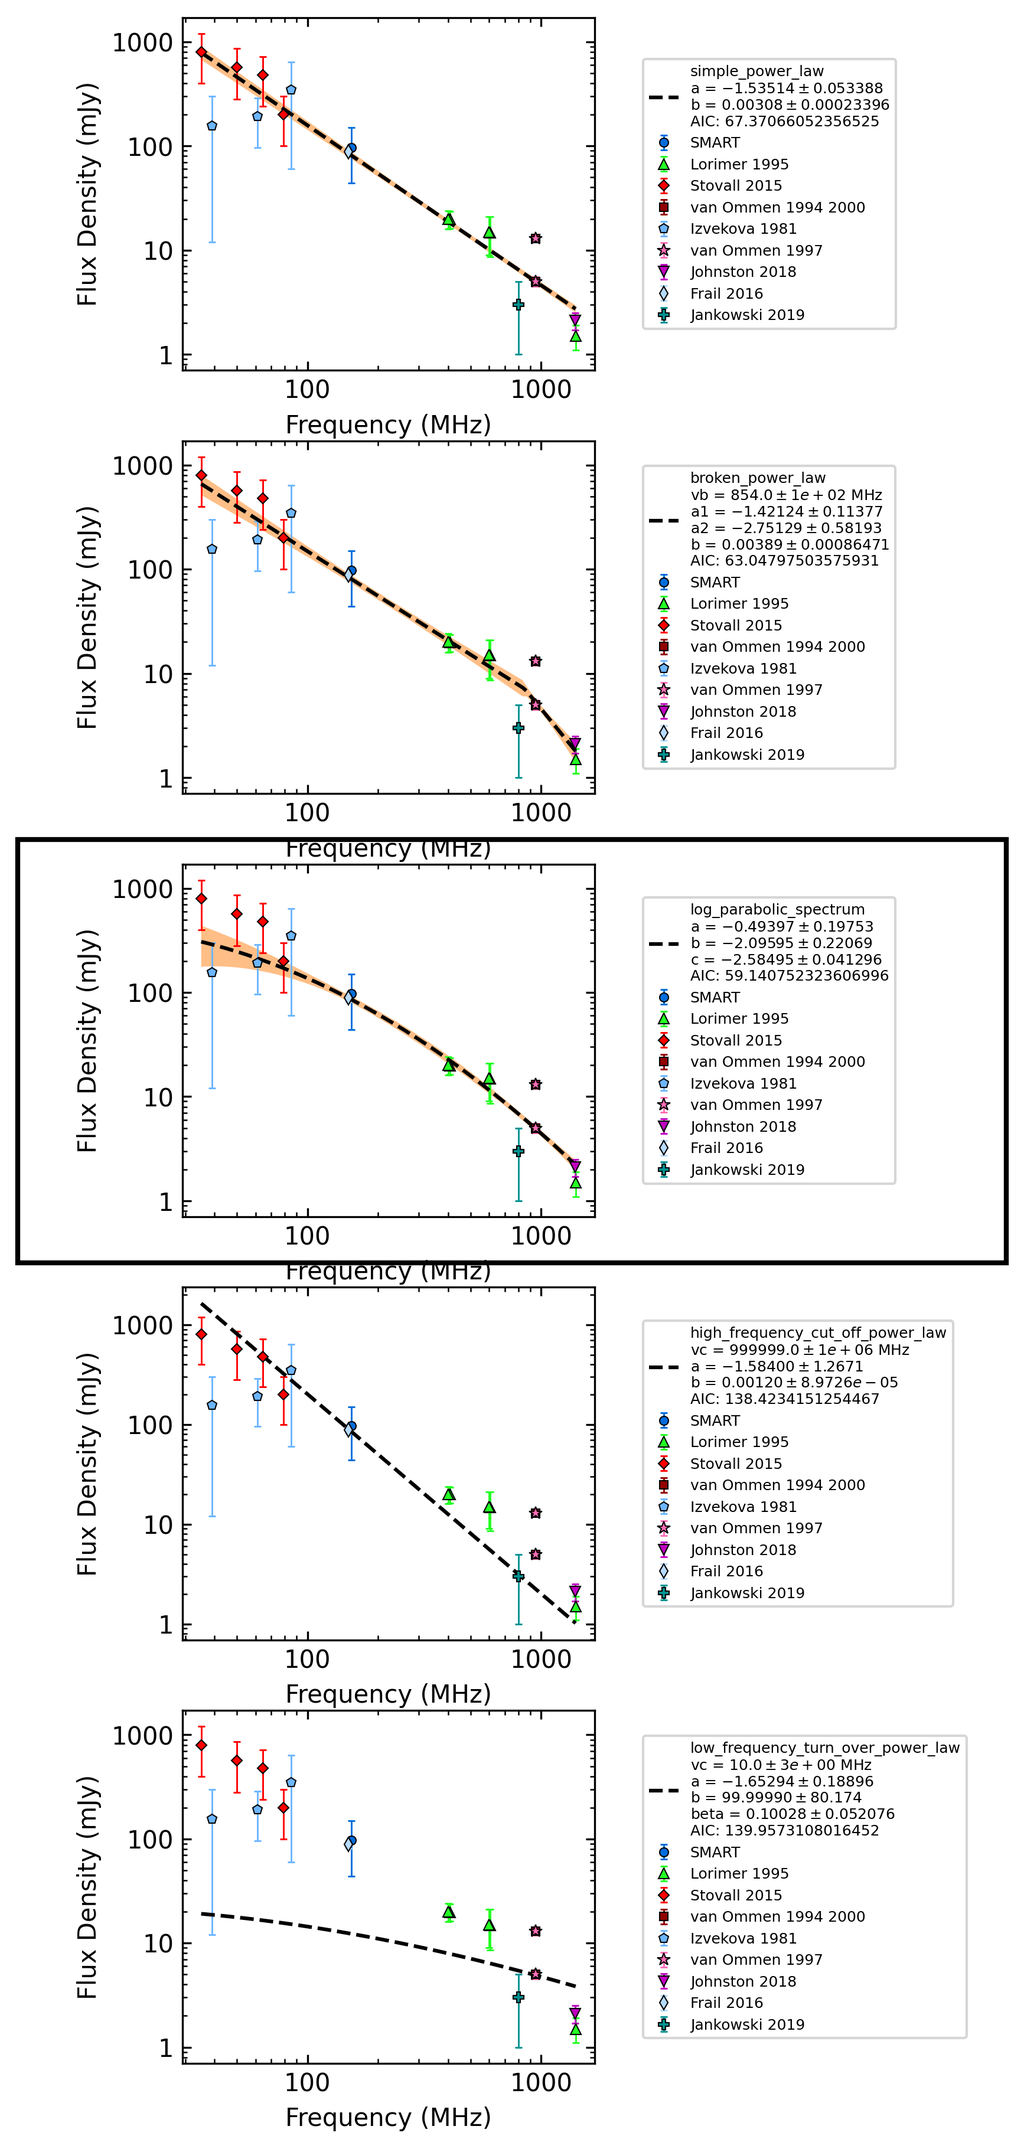
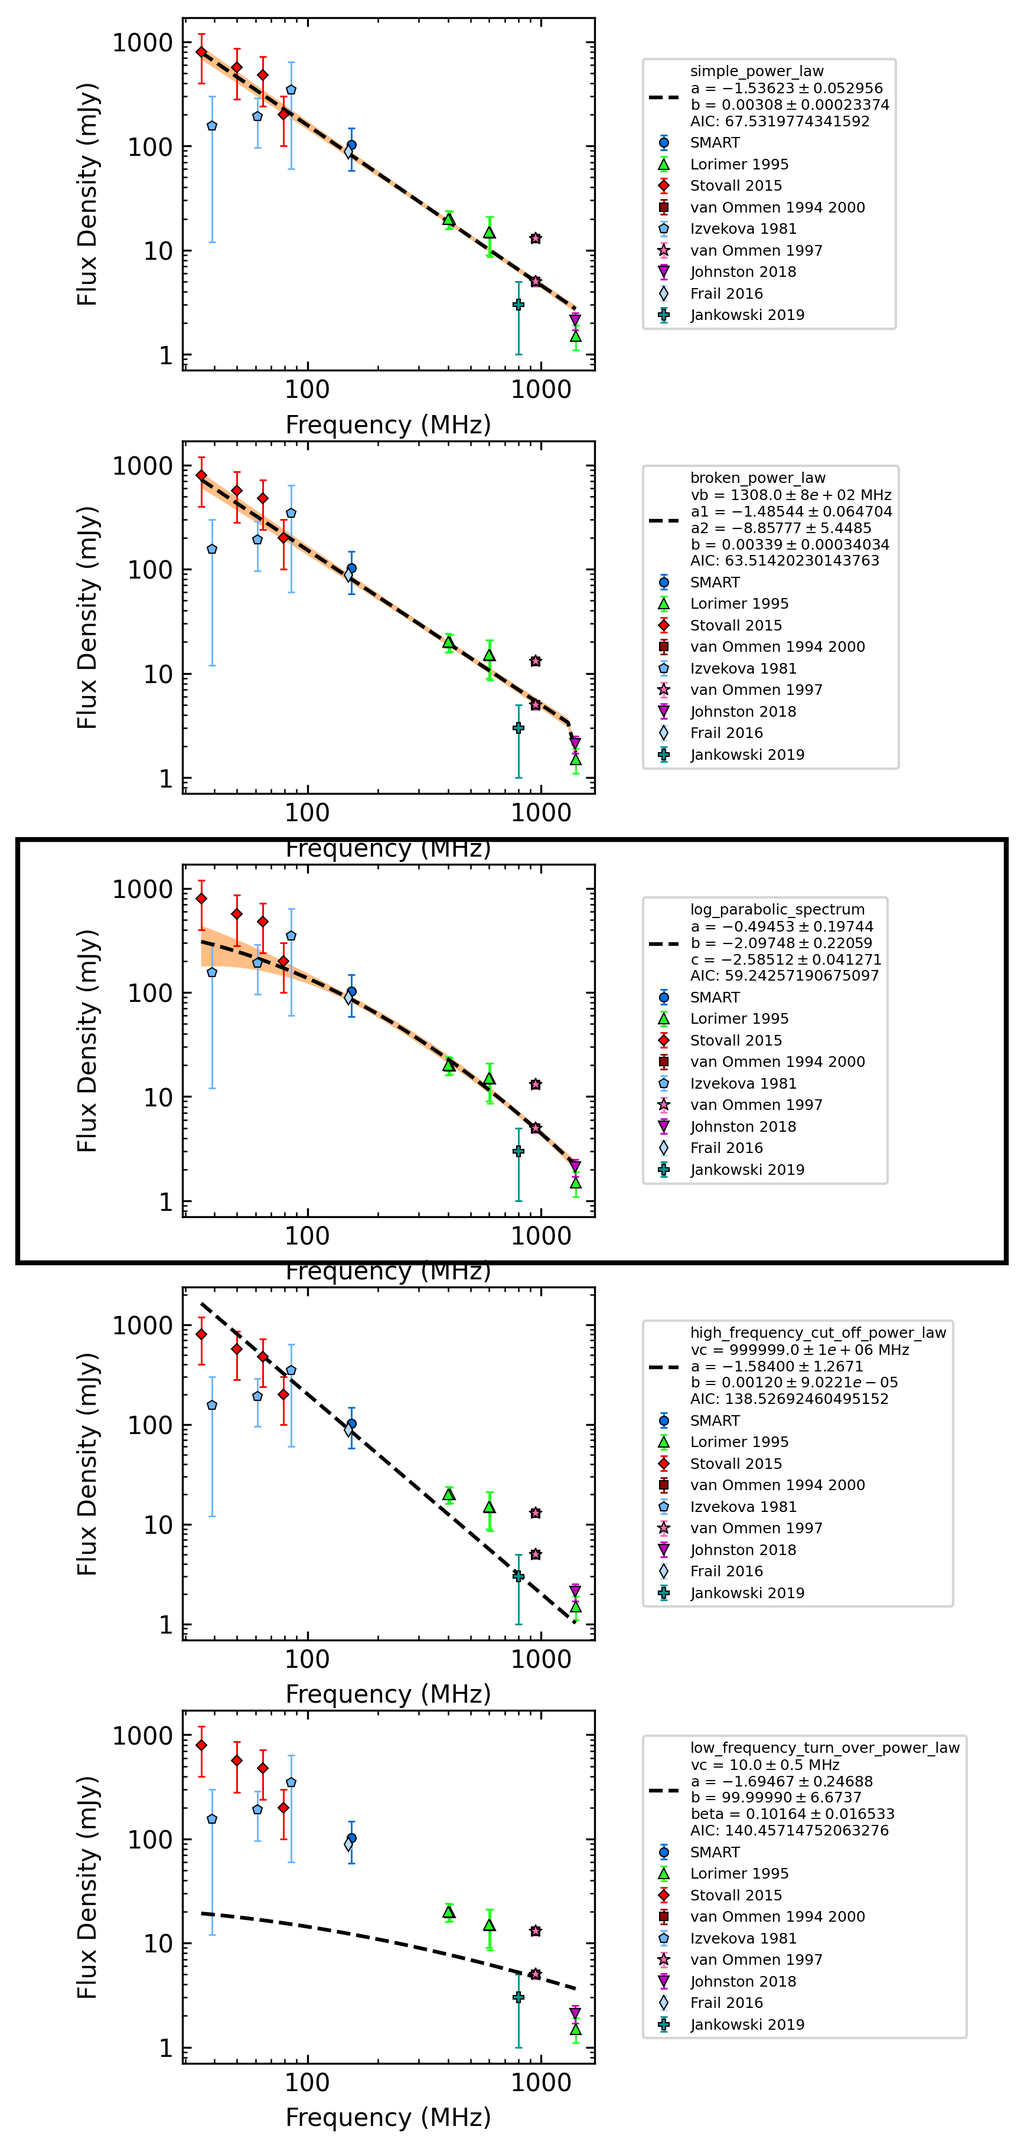
Fixed some nan fluxes

diff --git a/docs/index.rst b/docs/index.rst
@@ -12,216 +12,26 @@ Flux Density Results
 .. csv-table::
    :header: "Pulsar", "DM", "N obs", "Flux Density (mJy)", "u_S_mean", "u_scint", "m_r_v"
 
-   ":ref:`J0030+0451<J0030+0451>`", "4.332772", "1",  "32.5±42.0", "7.3", "41.3", "1.272"
-   ":ref:`J0034-0534<J0034-0534>`", "13.765170000000001", "1",  "228.8±184.7", "74.5", "169.0", "0.739"
-   ":ref:`J0034-0721<J0034-0721>`", "10.922", "2",  "316.3±254.6", "37.7", "260.5", "0.824"
-   ":ref:`J0051+0423<J0051+0423>`", "13.93", "1",  "51.6±40.6", "14.6", "37.9", "0.735"
-   ":ref:`J0134-2937<J0134-2937>`", "21.805999999999997", "1",  "9.6±6.2", "2.5", "5.7", "0.595"
-   ":ref:`J0152-1637<J0152-1637>`", "11.92577", "2",  "97.1±53.0", "17.9", "76.7", "0.790"
-   ":ref:`J0206-4028<J0206-4028>`", "12.9", "2",  "68.1±45.4", "14.2", "51.9", "0.762"
-   ":ref:`J0255-5304<J0255-5304>`", "15.9", "1",  "15.9±12.0", "4.8", "10.9", "0.690"
-   ":ref:`J0304+1932<J0304+1932>`", "15.656770000000002", "1",  "29.6±22.0", "7.7", "20.6", "0.695"
-   ":ref:`J0401-7608<J0401-7608>`", "21.7", "1",  "62.5±40.4", "15.5", "37.3", "0.596"
-   ":ref:`J0450-1248<J0450-1248>`", "37.041", "4",  "93.7±67.2", "56.4", "43.4", "0.464"
-   ":ref:`J0452-1759<J0452-1759>`", "39.903", "3",  "224.4±105.8", "79.4", "100.5", "0.448"
-   ":ref:`J0459-0210<J0459-0210>`", "21.02", "3",  "47.7±29.2", "25.3", "28.9", "0.605"
-   ":ref:`J0520-2553<J0520-2553>`", "33.77", "1",  "15.1±8.7", "4.6", "7.3", "0.485"
-   ":ref:`J0601-0527<J0601-0527>`", "80.538", "1",  "61.8±22.2", "9.9", "19.9", "0.322"
-   ":ref:`J0624-0424<J0624-0424>`", "70.835", "1",  "23.1±10.7", "7.2", "7.9", "0.342"
-   ":ref:`J0630-2834<J0630-2834>`", "34.425", "2",  "940.8±352.6", "93.1", "451.7", "0.480"
-   ":ref:`J0729-1448<J0729-1448>`", "91.89", "1",  "59.0±20.5", "10.1", "17.8", "0.303"
-   ":ref:`J0729-1836<J0729-1836>`", "61.293", "2",  "52.3±20.3", "13.4", "19.2", "0.366"
-   ":ref:`J0737-3039A<J0737-3039A>`", "48.92", "2",  "143.1±49.6", "32.0", "58.3", "0.407"
-   ":ref:`J0742-2822<J0742-2822>`", "73.72800000000001", "4",  "259.3±99.9", "45.3", "87.0", "0.336"
-   ":ref:`J0758-1528<J0758-1528>`", "63.327", "1",  "35.7±15.2", "8.1", "12.9", "0.361"
-   ":ref:`J0820-1350<J0820-1350>`", "40.938", "2",  "277.9±113.7", "49.8", "123.0", "0.443"
-   ":ref:`J0820-4114<J0820-4114>`", "113.4", "2",  "60.3±24.5", "10.4", "16.5", "0.274"
-   ":ref:`J0826+2637<J0826+2637>`", "19.476329999999997", "1",  "174.4±110.8", "16.9", "109.5", "0.628"
-   ":ref:`J0835-4510<J0835-4510>`", "67.771", "1",  "985.2±347.5", "48.7", "344.0", "0.349"
-   ":ref:`J0837+0610<J0837+0610>`", "12.864", "1",  "124.4±96.2", "15.6", "94.9", "0.763"
-   ":ref:`J0837-4135<J0837-4135>`", "147.2", "4",  "101.6±38.6", "19.0", "24.6", "0.243"
-   ":ref:`J0842-4851<J0842-4851>`", "196.85", "1",  "38.8±11.0", "7.4", "8.2", "0.212"
-   ":ref:`J0855-3331<J0855-3331>`", "86.635", "1",  "68.3±22.6", "7.6", "21.3", "0.311"
-   ":ref:`J0856-6137<J0856-6137>`", "95.0", "2",  "89.9±22.3", "12.8", "26.8", "0.298"
-   ":ref:`J0904-7459<J0904-7459>`", "51.1", "1",  "11.5±5.9", "3.7", "4.6", "0.399"
-   ":ref:`J0907-5157<J0907-5157>`", "103.72", "1",  "79.9±25.5", "11.3", "22.9", "0.286"
-   ":ref:`J0908-1739<J0908-1739>`", "15.879000000000001", "2",  "73.4±35.9", "10.6", "50.7", "0.691"
-   ":ref:`J0922+0638<J0922+0638>`", "27.2986", "3",  "147.1±90.9", "61.2", "78.8", "0.535"
-   ":ref:`J0924-5302<J0924-5302>`", "152.9", "4",  "64.1±17.5", "14.6", "15.3", "0.238"
-   ":ref:`J0924-5814<J0924-5814>`", "57.4", "2",  "32.0±12.0", "8.1", "12.1", "0.378"
-   ":ref:`J0942-5552<J0942-5552>`", "180.16", "1",  "31.9±8.4", "4.7", "7.0", "0.221"
-   ":ref:`J0942-5657<J0942-5657>`", "159.74", "3",  "66.3±19.2", "14.1", "15.5", "0.233"
-   ":ref:`J0943+1631<J0943+1631>`", "20.3402", "1",  "29.9±19.4", "6.1", "18.4", "0.615"
-   ":ref:`J0944-1354<J0944-1354>`", "12.497", "1",  "23.3±18.5", "4.2", "18.0", "0.773"
-   ":ref:`J0946+0951<J0946+0951>`", "15.31845", "1",  "159.1±112.9", "15.6", "111.8", "0.703"
-   ":ref:`J0953+0755<J0953+0755>`", "2.96927", "2",  "1157.9±1161.4", "119.8", "1758.9", "1.519"
-   ":ref:`J0955-5304<J0955-5304>`", "156.9", "2",  "33.9±15.9", "13.8", "8.0", "0.235"
-   ":ref:`J0959-4809<J0959-4809>`", "92.7", "2",  "64.6±26.3", "10.5", "19.5", "0.301"
-   ":ref:`J1003-4747<J1003-4747>`", "98.49", "1",  "25.5±9.5", "5.9", "7.5", "0.293"
-   ":ref:`J1012-2337<J1012-2337>`", "22.51", "2",  "23.7±13.0", "7.2", "13.9", "0.586"
-   ":ref:`J1018-1642<J1018-1642>`", "48.82", "2",  "17.2±7.7", "5.9", "7.0", "0.407"
-   ":ref:`J1022+1001<J1022+1001>`", "10.2521", "1",  "59.8±51.4", "8.4", "50.7", "0.848"
-   ":ref:`J1034-3224<J1034-3224>`", "50.75", "1",  "62.6±25.7", "5.8", "25.0", "0.400"
-   ":ref:`J1041-1942<J1041-1942>`", "33.777", "1",  "42.0±21.1", "5.8", "20.3", "0.484"
-   ":ref:`J1057-5226<J1057-5226>`", "29.69", "2",  "198.3±73.9", "15.5", "102.1", "0.515"
-   ":ref:`J1059-5742<J1059-5742>`", "108.7", "2",  "42.1±13.2", "10.8", "11.8", "0.280"
-   ":ref:`J1112-6926<J1112-6926>`", "148.4", "1",  "33.2±10.5", "6.8", "8.0", "0.242"
-   ":ref:`J1116-4122<J1116-4122>`", "40.53", "2",  "68.2±46.4", "39.9", "30.3", "0.445"
-   ":ref:`J1121-5444<J1121-5444>`", "204.7", "1",  "68.1±16.1", "7.6", "14.1", "0.208"
-   ":ref:`J1123-4844<J1123-4844>`", "92.915", "1",  "14.0±6.3", "4.7", "4.2", "0.301"
-   ":ref:`J1123-6651<J1123-6651>`", "111.196", "2",  "30.3±11.1", "9.1", "8.4", "0.277"
-   ":ref:`J1136+1551<J1136+1551>`", "4.84066", "1",  "272.7±330.7", "31.6", "329.2", "1.207"
-   ":ref:`J1136-5525<J1136-5525>`", "85.111", "1",  "29.3±10.6", "5.3", "9.2", "0.314"
-   ":ref:`J1141-6545<J1141-6545>`", "116.08", "2",  "34.2±15.0", "10.1", "9.3", "0.271"
-   ":ref:`J1146-6030<J1146-6030>`", "111.68", "1",  "20.9±7.8", "5.3", "5.8", "0.276"
-   ":ref:`J1202-5820<J1202-5820>`", "145.41", "2",  "90.8±20.0", "11.8", "22.2", "0.244"
-   ":ref:`J1224-6407<J1224-6407>`", "97.686", "2",  "62.9±18.7", "10.3", "18.5", "0.294"
-   ":ref:`J1239-6832<J1239-6832>`", "94.3", "1",  "22.6±9.0", "5.9", "6.8", "0.299"
-   ":ref:`J1240-4124<J1240-4124>`", "44.1", "2",  "24.7±13.3", "10.7", "10.6", "0.427"
-   ":ref:`J1257-1027<J1257-1027>`", "29.634", "1",  "26.5±16.0", "8.3", "13.6", "0.515"
-   ":ref:`J1300+1240<J1300+1240>`", "10.1655", "2",  "34.8±22.6", "12.2", "29.6", "0.852"
-   ":ref:`J1311-1228<J1311-1228>`", "36.214", "3",  "52.7±27.1", "15.9", "24.7", "0.469"
-   ":ref:`J1312-5402<J1312-5402>`", "133.0", "1",  "22.4±7.7", "5.2", "5.7", "0.254"
-   ":ref:`J1313+0931<J1313+0931>`", "12.040623", "2",  "29.7±18.6", "11.0", "23.3", "0.787"
-   ":ref:`J1320-5359<J1320-5359>`", "97.1", "2",  "44.4±15.1", "10.0", "13.1", "0.295"
-   ":ref:`J1328-4357<J1328-4357>`", "42.0", "1",  "49.7±23.3", "8.4", "21.7", "0.437"
-   ":ref:`J1332-3032<J1332-3032>`", "15.1", "1",  "46.0±33.4", "7.7", "32.5", "0.707"
-   ":ref:`J1335-3642<J1335-3642>`", "41.82", "1",  "44.3±21.0", "8.1", "19.4", "0.438"
-   ":ref:`J1340-6456<J1340-6456>`", "76.99", "1",  "20.9±9.0", "5.8", "6.9", "0.329"
-   ":ref:`J1355-5153<J1355-5153>`", "112.1", "2",  "106.0±32.6", "18.9", "29.2", "0.276"
-   ":ref:`J1430-6623<J1430-6623>`", "65.102", "2",  "71.5±30.6", "16.0", "25.5", "0.356"
-   ":ref:`J1440-6344<J1440-6344>`", "124.2", "1",  "55.5±18.5", "11.4", "14.6", "0.263"
-   ":ref:`J1453-6413<J1453-6413>`", "71.248", "1",  "546.0±195.4", "59.1", "186.2", "0.341"
-   ":ref:`J1455-3330<J1455-3330>`", "13.569773000000001", "1",  "54.2±42.5", "13.5", "40.3", "0.744"
-   ":ref:`J1456-6843<J1456-6843>`", "8.613", "2",  "305.0±191.8", "37.5", "280.9", "0.921"
-   ":ref:`J1507-4352<J1507-4352>`", "48.7", "1",  "116.3±49.6", "14.7", "47.4", "0.408"
-   ":ref:`J1527-3931<J1527-3931>`", "48.8", "1",  "28.7±16.6", "11.9", "11.7", "0.408"
-   ":ref:`J1534-5334<J1534-5334>`", "24.82", "2",  "105.4±44.4", "21.5", "59.0", "0.560"
-   ":ref:`J1543+0929<J1543+0929>`", "34.9758", "1",  "397.7±191.3", "26.0", "189.5", "0.477"
-   ":ref:`J1543-0620<J1543-0620>`", "18.3", "1",  "251.7±165.9", "32.6", "162.7", "0.646"
-   ":ref:`J2048-1616<J2048-1616>`", "11.456", "1",  "60.9±49.8", "8.8", "49.1", "0.805"
-   ":ref:`J2108-3429<J2108-3429>`", "30.22", "1",  "11.1±7.3", "4.6", "5.7", "0.510"
-   ":ref:`J2145-0750<J2145-0750>`", "9.001883", "2",  "368.2±318.2", "124.2", "332.1", "0.902"
-   ":ref:`J2155-3118<J2155-3118>`", "14.85", "1",  "196.3±142.1", "24.9", "139.9", "0.713"
-   ":ref:`J2222-0137<J2222-0137>`", "3.265", "1",  "27.3±40.1", "5.9", "39.6", "1.453"
-   ":ref:`J2234+2114<J2234+2114>`", "35.08", "1",  "7.8±7.4", "6.4", "3.7", "0.476"
-   ":ref:`J2241-5236<J2241-5236>`", "11.41151", "2",  "331.6±254.0", "34.7", "267.5", "0.807"
-   ":ref:`J2248-0101<J2248-0101>`", "29.05", "1",  "20.2±14.4", "9.8", "10.5", "0.520"
-   ":ref:`J2317+2149<J2317+2149>`", "20.86959", "1",  "45.2±28.1", "5.9", "27.5", "0.607"
-   ":ref:`J2324-6054<J2324-6054>`", "14.0", "1",  "10.3±8.4", "3.6", "7.5", "0.733"
-   ":ref:`J2330-2005<J2330-2005>`", "8.456", "2",  "72.5±45.6", "16.1", "67.4", "0.929"
+   ":ref:`J2241-5236<J2241-5236>`", "11.41151", "3",  "274.4±204.7", "44.9", "221.4", "0.807"
 
 Single Power Law Results
 ------------------------
 .. csv-table::
    :header: "Pulsar", "DM", "a", "b"
 
-   ":ref:`J0030+0451<J0030+0451>`", "4.332772", "-1.78±0.10", "0.00±0.00"
-   ":ref:`J0051+0423<J0051+0423>`", "13.93", "-1.05±0.12", "0.00±0.00"
-   ":ref:`J0134-2937<J0134-2937>`", "21.805999999999997", "-0.51±0.24", "0.00±0.00"
-   ":ref:`J0206-4028<J0206-4028>`", "12.9", "-1.87±0.10", "0.00±0.00"
-   ":ref:`J0255-5304<J0255-5304>`", "15.9", "-0.60±0.27", "0.01±0.00"
-   ":ref:`J0459-0210<J0459-0210>`", "21.02", "-1.30±0.19", "0.00±0.00"
-   ":ref:`J0520-2553<J0520-2553>`", "33.77", "-1.00±0.25", "0.00±0.00"
-   ":ref:`J0624-0424<J0624-0424>`", "70.835", "-1.03±0.18", "0.00±0.00"
-   ":ref:`J0729-1448<J0729-1448>`", "91.89", "-1.51±0.14", "0.00±0.00"
-   ":ref:`J0729-1836<J0729-1836>`", "61.293", "-1.67±0.09", "0.00±0.00"
-   ":ref:`J0842-4851<J0842-4851>`", "196.85", "-1.85±0.11", "0.00±0.00"
-   ":ref:`J0855-3331<J0855-3331>`", "86.635", "-2.15±0.10", "0.00±0.00"
-   ":ref:`J0856-6137<J0856-6137>`", "95.0", "-2.35±0.11", "0.00±0.00"
-   ":ref:`J0907-5157<J0907-5157>`", "103.72", "-1.10±0.07", "0.01±0.00"
-   ":ref:`J0908-1739<J0908-1739>`", "15.879000000000001", "-1.36±0.13", "0.00±0.00"
-   ":ref:`J0924-5302<J0924-5302>`", "152.9", "-2.06±0.07", "0.00±0.00"
-   ":ref:`J0942-5657<J0942-5657>`", "159.74", "-2.13±0.16", "0.00±0.00"
-   ":ref:`J0959-4809<J0959-4809>`", "92.7", "-1.53±0.16", "0.00±0.00"
-   ":ref:`J1012-2337<J1012-2337>`", "22.51", "-2.54±0.20", "0.00±0.00"
-   ":ref:`J1018-1642<J1018-1642>`", "48.82", "-1.60±0.18", "0.00±0.00"
-   ":ref:`J1112-6926<J1112-6926>`", "148.4", "-1.59±0.21", "0.00±0.00"
-   ":ref:`J1123-4844<J1123-4844>`", "92.915", "-1.23±0.15", "0.00±0.00"
-   ":ref:`J1123-6651<J1123-6651>`", "111.196", "-1.97±0.16", "0.00±0.00"
-   ":ref:`J1136-5525<J1136-5525>`", "85.111", "-0.71±0.21", "0.01±0.00"
-   ":ref:`J1224-6407<J1224-6407>`", "97.686", "-1.27±0.09", "0.01±0.00"
-   ":ref:`J1239-6832<J1239-6832>`", "94.3", "-1.58±0.11", "0.00±0.00"
-   ":ref:`J1240-4124<J1240-4124>`", "44.1", "-1.87±0.24", "0.00±0.00"
-   ":ref:`J1257-1027<J1257-1027>`", "29.634", "-1.71±0.13", "0.00±0.00"
-   ":ref:`J1300+1240<J1300+1240>`", "10.1655", "-2.72±0.37", "0.00±0.00"
-   ":ref:`J1311-1228<J1311-1228>`", "36.214", "-1.76±0.19", "0.00±0.00"
-   ":ref:`J1313+0931<J1313+0931>`", "12.040623", "-2.46±0.05", "0.00±0.00"
-   ":ref:`J1328-4357<J1328-4357>`", "42.0", "-1.10±0.24", "0.00±0.00"
-   ":ref:`J1332-3032<J1332-3032>`", "15.1", "-2.54±0.31", "0.00±0.00"
-   ":ref:`J1335-3642<J1335-3642>`", "41.82", "-2.19±0.16", "0.00±0.00"
-   ":ref:`J1340-6456<J1340-6456>`", "76.99", "-1.39±0.19", "0.00±0.00"
-   ":ref:`J1355-5153<J1355-5153>`", "112.1", "-2.46±0.18", "0.00±0.00"
-   ":ref:`J1440-6344<J1440-6344>`", "124.2", "-1.97±0.15", "0.00±0.00"
-   ":ref:`J1455-3330<J1455-3330>`", "13.569773000000001", "-1.52±0.35", "0.00±0.00"
-   ":ref:`J1507-4352<J1507-4352>`", "48.7", "-2.21±0.20", "0.00±0.00"
-   ":ref:`J1527-3931<J1527-3931>`", "48.8", "-1.67±0.21", "0.00±0.00"
-   ":ref:`J2108-3429<J2108-3429>`", "30.22", "-1.13±0.19", "0.00±0.00"
-   ":ref:`J2145-0750<J2145-0750>`", "9.001883", "-1.49±0.01", "0.01±0.00"
-   ":ref:`J2155-3118<J2155-3118>`", "14.85", "-1.91±0.15", "0.00±0.00"
-   ":ref:`J2222-0137<J2222-0137>`", "3.265", "-0.71±0.33", "0.00±0.00"
-   ":ref:`J2234+2114<J2234+2114>`", "35.08", "-1.51±0.41", "0.00±0.00"
    ":ref:`J2241-5236<J2241-5236>`", "11.41151", "-1.97±0.11", "0.00±0.00"
-   ":ref:`J2248-0101<J2248-0101>`", "29.05", "-1.65±0.17", "0.00±0.00"
 
 Broken Power Law Results
 ------------------------
 .. csv-table::
    :header: "Pulsar", "DM", "vb (MHz)", "a1", "a2", "b"
 
-   ":ref:`J0401-7608<J0401-7608>`", "21.7", "956±107", "1.92±1.09", "-1.96±0.82", "0.01±0.01"
-   ":ref:`J0452-1759<J0452-1759>`", "39.903", "802±27", "-0.34±0.06", "-4.23±0.42", "0.05±0.00"
-   ":ref:`J0742-2822<J0742-2822>`", "73.72800000000001", "402±12", "0.09±0.39", "-1.98±0.06", "0.33±0.15"
-   ":ref:`J0758-1528<J0758-1528>`", "63.327", "925±3", "-1.76±0.16", "-0.11±0.28", "0.00±0.00"
-   ":ref:`J0820-1350<J0820-1350>`", "40.938", "438±36", "-0.87±0.07", "-2.22±0.15", "0.03±0.00"
-   ":ref:`J0826+2637<J0826+2637>`", "19.476329999999997", "161±9", "0.29±0.11", "-1.61±0.02", "0.71±0.19"
-   ":ref:`J0837-4135<J0837-4135>`", "147.2", "535±124", "0.83±0.83", "-2.72±0.25", "0.47±0.64"
-   ":ref:`J0942-5552<J0942-5552>`", "180.16", "1135±50", "-0.40±0.18", "-2.73±0.14", "0.02±0.00"
-   ":ref:`J1059-5742<J1059-5742>`", "108.7", "1118±21", "2.27±1.08", "-10.00±9.70", "0.02±0.01"
-   ":ref:`J1116-4122<J1116-4122>`", "40.53", "1228±172", "-0.94±0.09", "-3.71±0.58", "0.01±0.00"
-   ":ref:`J1136+1551<J1136+1551>`", "4.84066", "176±12", "0.67±0.18", "-2.75±0.08", "3.64±1.98"
-   ":ref:`J1312-5402<J1312-5402>`", "133.0", "301±24", "0.91±0.52", "-2.57±0.19", "0.16±0.12"
-   ":ref:`J1453-6413<J1453-6413>`", "71.248", "260±23", "0.29±0.16", "-2.26±0.15", "1.18±0.38"
 
 Log-parabolic spectrum Results
 ------------------------------
 .. csv-table::
    :header: "Pulsar", "DM", "a", "b", "c"
 
-   ":ref:`J0034-0534<J0034-0534>`", "13.765170000000001", "0.17±0.11", "-2.41±0.16", "-3.09±0.05"
-   ":ref:`J0034-0721<J0034-0721>`", "10.922", "-1.50±0.16", "-4.02±0.34", "-2.87±0.18"
-   ":ref:`J0152-1637<J0152-1637>`", "11.92577", "-0.49±0.20", "-2.10±0.22", "-2.58±0.04"
-   ":ref:`J0304+1932<J0304+1932>`", "15.656770000000002", "-0.92±0.32", "-1.86±0.45", "-2.28±0.14"
-   ":ref:`J0450-1248<J0450-1248>`", "37.041", "-0.77±0.29", "-2.38±0.23", "-2.92±0.05"
-   ":ref:`J0601-0527<J0601-0527>`", "80.538", "-0.36±0.16", "-1.87±0.10", "-2.54±0.02"
-   ":ref:`J0630-2834<J0630-2834>`", "34.425", "-1.99±0.03", "-5.00±0.08", "-3.06±0.03"
-   ":ref:`J0737-3039A<J0737-3039A>`", "48.92", "-0.28±0.11", "-1.88±0.08", "-2.56±0.03"
-   ":ref:`J0820-4114<J0820-4114>`", "113.4", "-0.87±0.25", "-2.25±0.23", "-2.20±0.04"
-   ":ref:`J0837+0610<J0837+0610>`", "12.864", "-1.30±0.07", "-3.42±0.12", "-2.43±0.05"
-   ":ref:`J0904-7459<J0904-7459>`", "51.1", "-1.48±0.41", "-2.05±0.27", "-2.56±0.09"
-   ":ref:`J0922+0638<J0922+0638>`", "27.2986", "-0.59±0.11", "-1.95±0.18", "-2.15±0.06"
-   ":ref:`J0924-5814<J0924-5814>`", "57.4", "-0.82±0.42", "-1.65±0.28", "-2.29±0.04"
-   ":ref:`J0943+1631<J0943+1631>`", "20.3402", "-0.76±0.16", "-1.70±0.26", "-2.80±0.08"
-   ":ref:`J0944-1354<J0944-1354>`", "12.497", "-2.98±0.45", "-5.00±5.98", "-3.39±0.12"
-   ":ref:`J0953+0755<J0953+0755>`", "2.96927", "-1.05±0.04", "-2.12±0.03", "-1.01±0.02"
-   ":ref:`J0955-5304<J0955-5304>`", "156.9", "-3.16±0.52", "-4.37±0.36", "-2.86±0.04"
-   ":ref:`J1003-4747<J1003-4747>`", "98.49", "-0.57±0.19", "-1.69±0.10", "-2.80±0.02"
-   ":ref:`J1022+1001<J1022+1001>`", "10.2521", "-0.40±0.13", "-1.61±0.07", "-2.26±0.03"
-   ":ref:`J1034-3224<J1034-3224>`", "50.75", "-2.14±0.62", "-1.54±0.30", "-1.99±0.09"
-   ":ref:`J1041-1942<J1041-1942>`", "33.777", "-1.08±0.59", "-2.26±0.58", "-2.49±0.14"
-   ":ref:`J1057-5226<J1057-5226>`", "29.69", "-0.85±0.02", "-2.65±0.08", "-2.25±0.05"
-   ":ref:`J1121-5444<J1121-5444>`", "204.7", "-0.56±0.32", "-2.44±0.25", "-2.78±0.04"
-   ":ref:`J1141-6545<J1141-6545>`", "116.08", "-1.30±0.27", "-2.34±0.20", "-2.50±0.04"
-   ":ref:`J1146-6030<J1146-6030>`", "111.68", "-0.88±0.36", "-1.61±0.28", "-2.38±0.04"
-   ":ref:`J1202-5820<J1202-5820>`", "145.41", "-1.25±0.49", "-2.81±0.44", "-2.58±0.05"
-   ":ref:`J1320-5359<J1320-5359>`", "97.1", "-0.42±0.21", "-1.73±0.11", "-2.61±0.04"
-   ":ref:`J1430-6623<J1430-6623>`", "65.102", "-2.02±0.41", "-3.02±0.31", "-1.99±0.04"
-   ":ref:`J1456-6843<J1456-6843>`", "8.613", "-0.39±0.12", "-1.45±0.12", "-1.05±0.03"
-   ":ref:`J1534-5334<J1534-5334>`", "24.82", "1.54±0.39", "-0.46±0.39", "-2.16±0.03"
-   ":ref:`J1543+0929<J1543+0929>`", "34.9758", "-1.17±0.21", "-3.10±0.31", "-2.39±0.09"
-   ":ref:`J2317+2149<J2317+2149>`", "20.86959", "-1.13±0.29", "-2.68±0.47", "-2.93±0.15"
-   ":ref:`J2324-6054<J2324-6054>`", "14.0", "-5.00±4.47", "-3.34±0.42", "-2.82±0.08"
-   ":ref:`J2330-2005<J2330-2005>`", "8.456", "-0.62±0.11", "-2.17±0.13", "-2.38±0.05"
 
 Power law with high-frequency cut-off Results
 ---------------------------------------------
@@ -234,10 +44,6 @@ Power law with low-frequency turn-over Results
 .. csv-table::
    :header: "Pulsar", "DM", "vc (MHz)", "a", "b", "beta"
 
-   ":ref:`J0835-4510<J0835-4510>`", "67.771", "112±3", "-2.76±0.03", "1.57±0.12", "0.54±0.01"
-   ":ref:`J0946+0951<J0946+0951>`", "15.31845", "48±2", "-5.00±3.43", "0.00±0.00", "0.69±0.09"
-   ":ref:`J1543-0620<J1543-0620>`", "18.3", "77±14", "-1.87±0.40", "0.00±0.00", "1.47±0.57"
-   ":ref:`J2048-1616<J2048-1616>`", "11.456", "158±23", "-1.66±0.17", "0.01±0.00", "2.10±0.29"
 
 .. toctree::
    :maxdepth: 1

diff --git a/docs/J0152-1637.rst b/docs/J0152-1637.rst
@@ -10,7 +10,7 @@ Best Fit
 .. csv-table:: J0152-1637 fit results
    :header: "model","a","b","c"
 
-   "log_parabolic_spectrum","-0.49±0.20","-2.10±0.22","-2.58±0.04"
+   "log_parabolic_spectrum","-0.49±0.20","-2.10±0.22","-2.59±0.04"
 
 Fit Before MWA
 --------------
@@ -28,14 +28,14 @@ Flux Density Results
 .. csv-table:: J0152-1637 flux density total results
    :header: "N obs", "Flux Density (mJy)", "u_S_mean", "u_scint", "m_r_v"
 
-   "2",  "97.1±53.0", "17.9", "76.7", "0.790"
+   "3",  "103.0±44.7", "23.3", "81.4", "0.790"
 
 .. csv-table:: J0152-1637 flux density individual results
    :header: "ObsID", "Flux Density (mJy)"
 
-    "1226062160", "79.5±9.9"
-    "1225462936", "114.6±14.9"
-    "1252780888", "nan±nan"
+    "1226062160", "90.8±11.3"
+    "1225462936", "130.9±17.0"
+    "1252780888", "87.2±11.1"
 
 Comparison Fit
 --------------

diff --git a/docs/J0255-5304.rst b/docs/J0255-5304.rst
@@ -10,7 +10,7 @@ Best Fit
 .. csv-table:: J0255-5304 fit results
    :header: "model","a","b"
 
-   "simple_power_law","-0.60±0.27","0.01±0.00"
+   "simple_power_law","-0.93±0.25","0.01±0.00"
 
 Fit Before MWA
 --------------
@@ -28,13 +28,13 @@ Flux Density Results
 .. csv-table:: J0255-5304 flux density total results
    :header: "N obs", "Flux Density (mJy)", "u_S_mean", "u_scint", "m_r_v"
 
-   "1",  "15.9±12.0", "4.8", "10.9", "0.690"
+   "2",  "42.8±27.1", "11.7", "29.5", "0.690"
 
 .. csv-table:: J0255-5304 flux density individual results
    :header: "ObsID", "Flux Density (mJy)"
 
-    "1224859816", "15.9±4.8"
-    "1253471952", "nan±nan"
+    "1224859816", "18.4±5.6"
+    "1253471952", "67.2±10.3"
 
 Comparison Fit
 --------------

diff --git a/docs/J2241-5236.rst b/docs/J2241-5236.rst
@@ -28,14 +28,14 @@ Flux Density Results
 .. csv-table:: J2241-5236 flux density total results
    :header: "N obs", "Flux Density (mJy)", "u_S_mean", "u_scint", "m_r_v"
 
-   "2",  "331.6±254.0", "34.7", "267.5", "0.807"
+   "3",  "274.4±204.7", "44.9", "221.4", "0.807"
 
 .. csv-table:: J2241-5236 flux density individual results
    :header: "ObsID", "Flux Density (mJy)"
 
-    "1221399680", "44.9±11.2"
-    "1225713560", "nan±nan"
-    "1224252736", "618.3±32.9"
+    "1221399680", "50.1±12.5"
+    "1225713560", "68.5±21.4"
+    "1224252736", "704.6±37.4"
 
 Comparison Fit
 --------------
